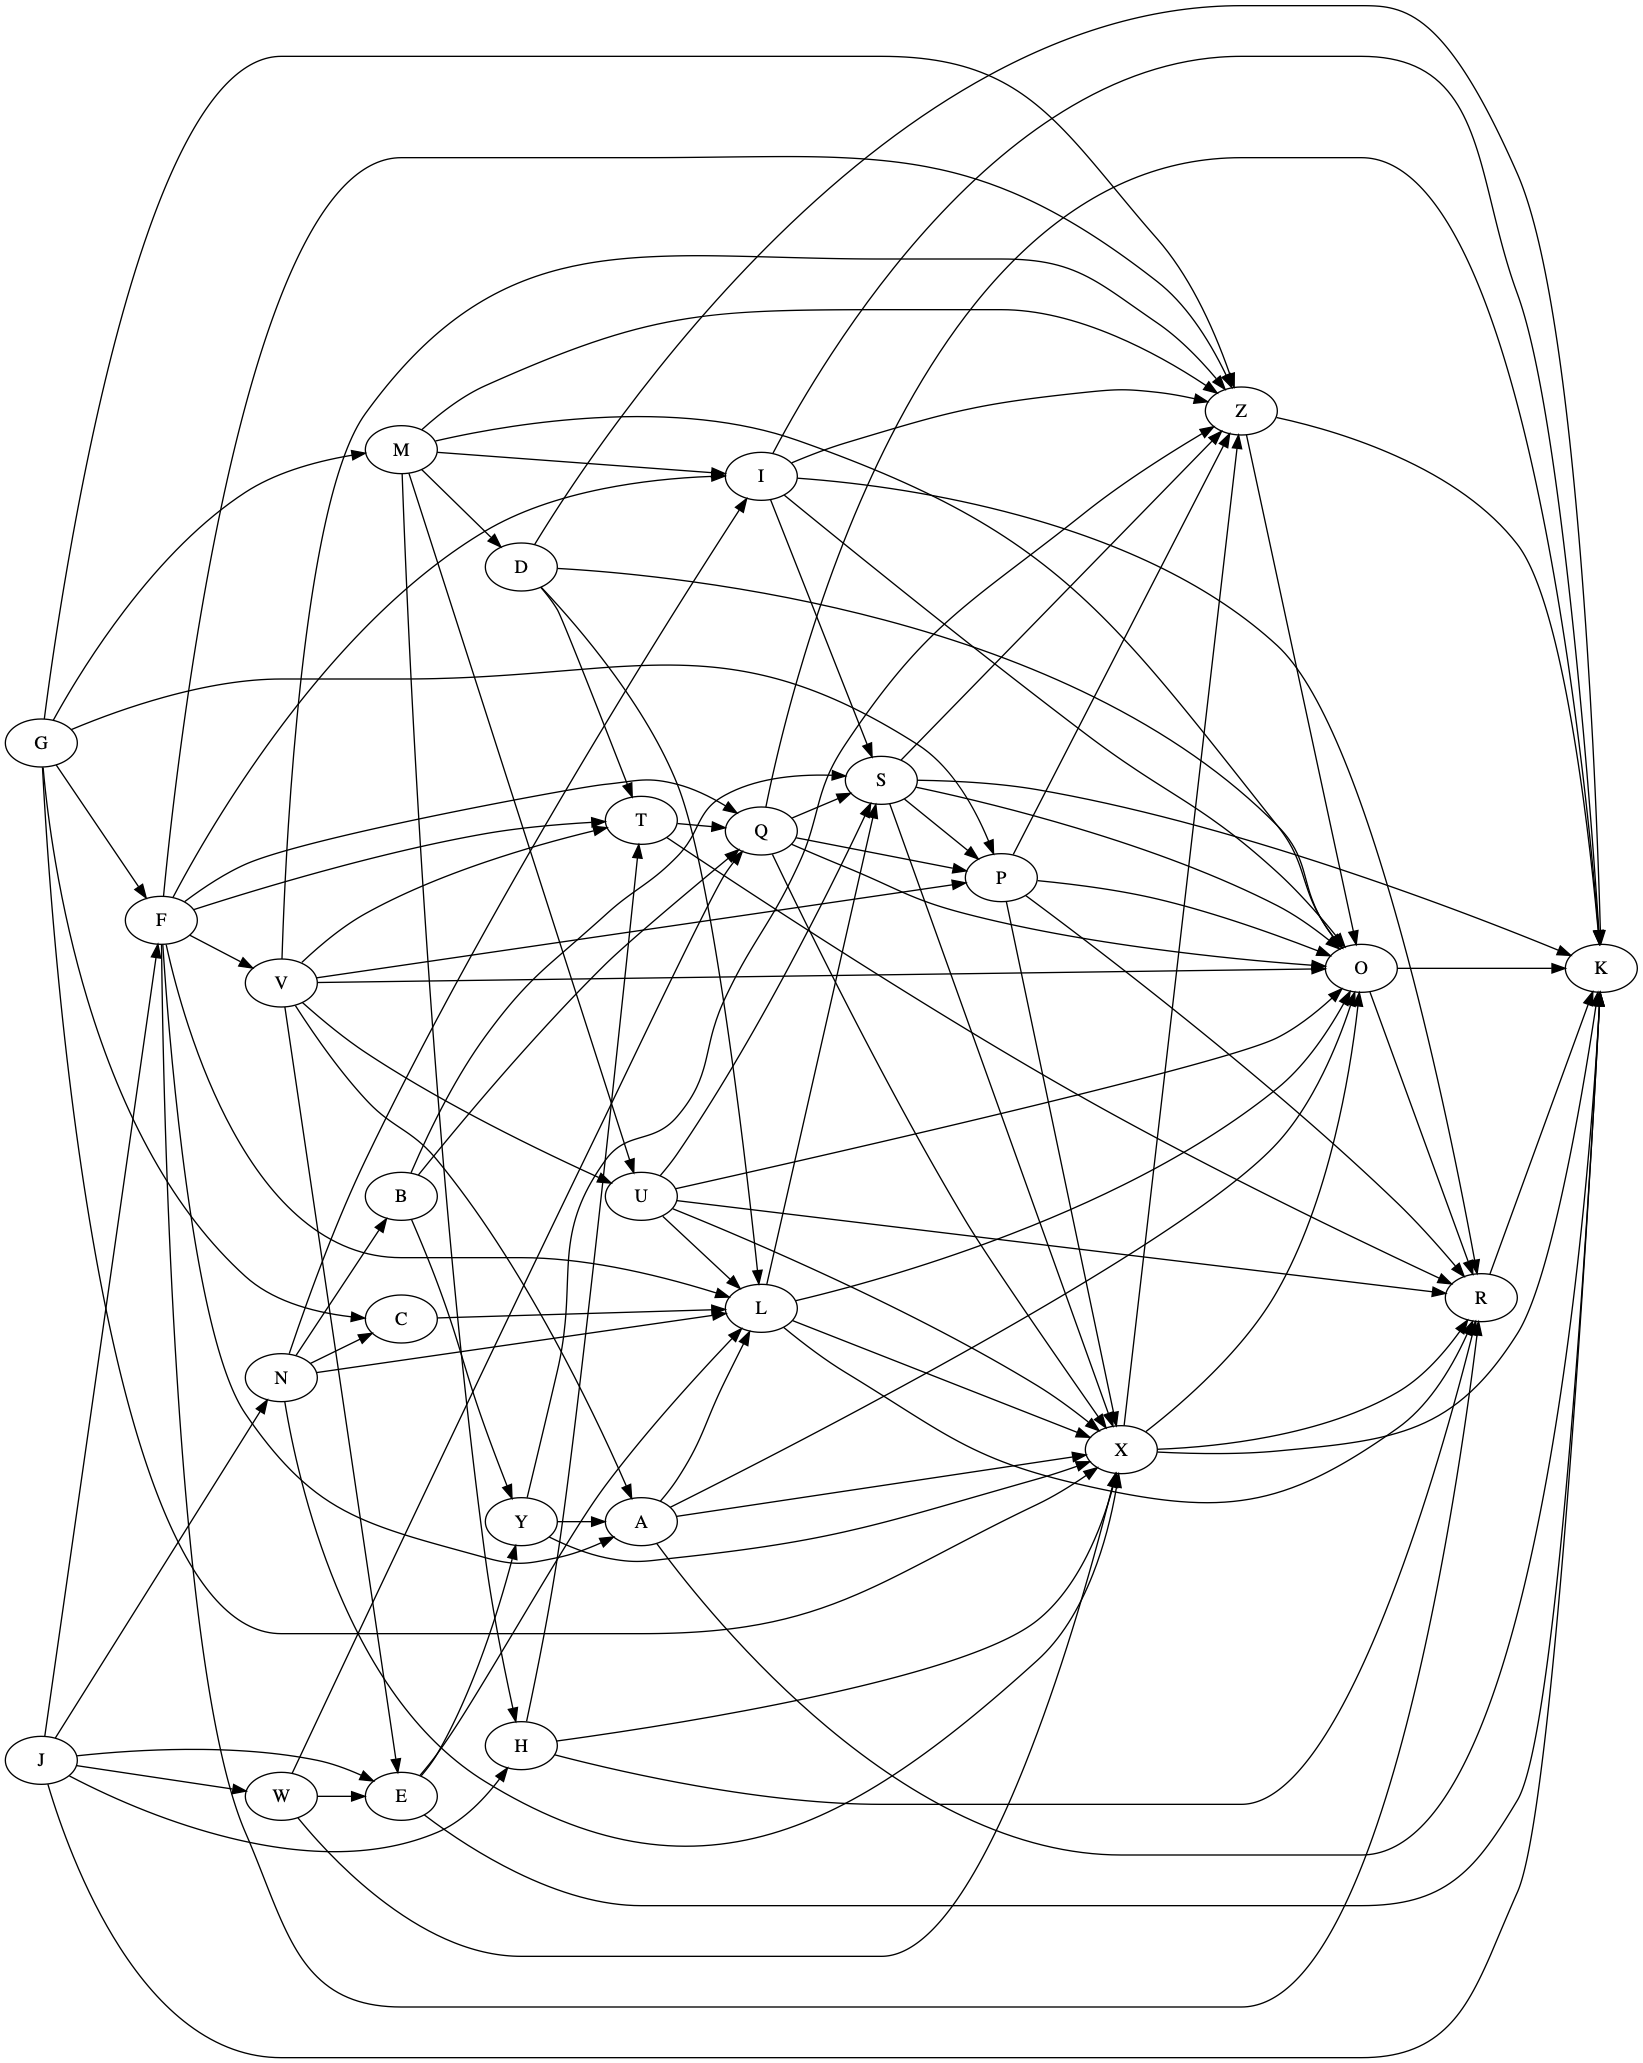
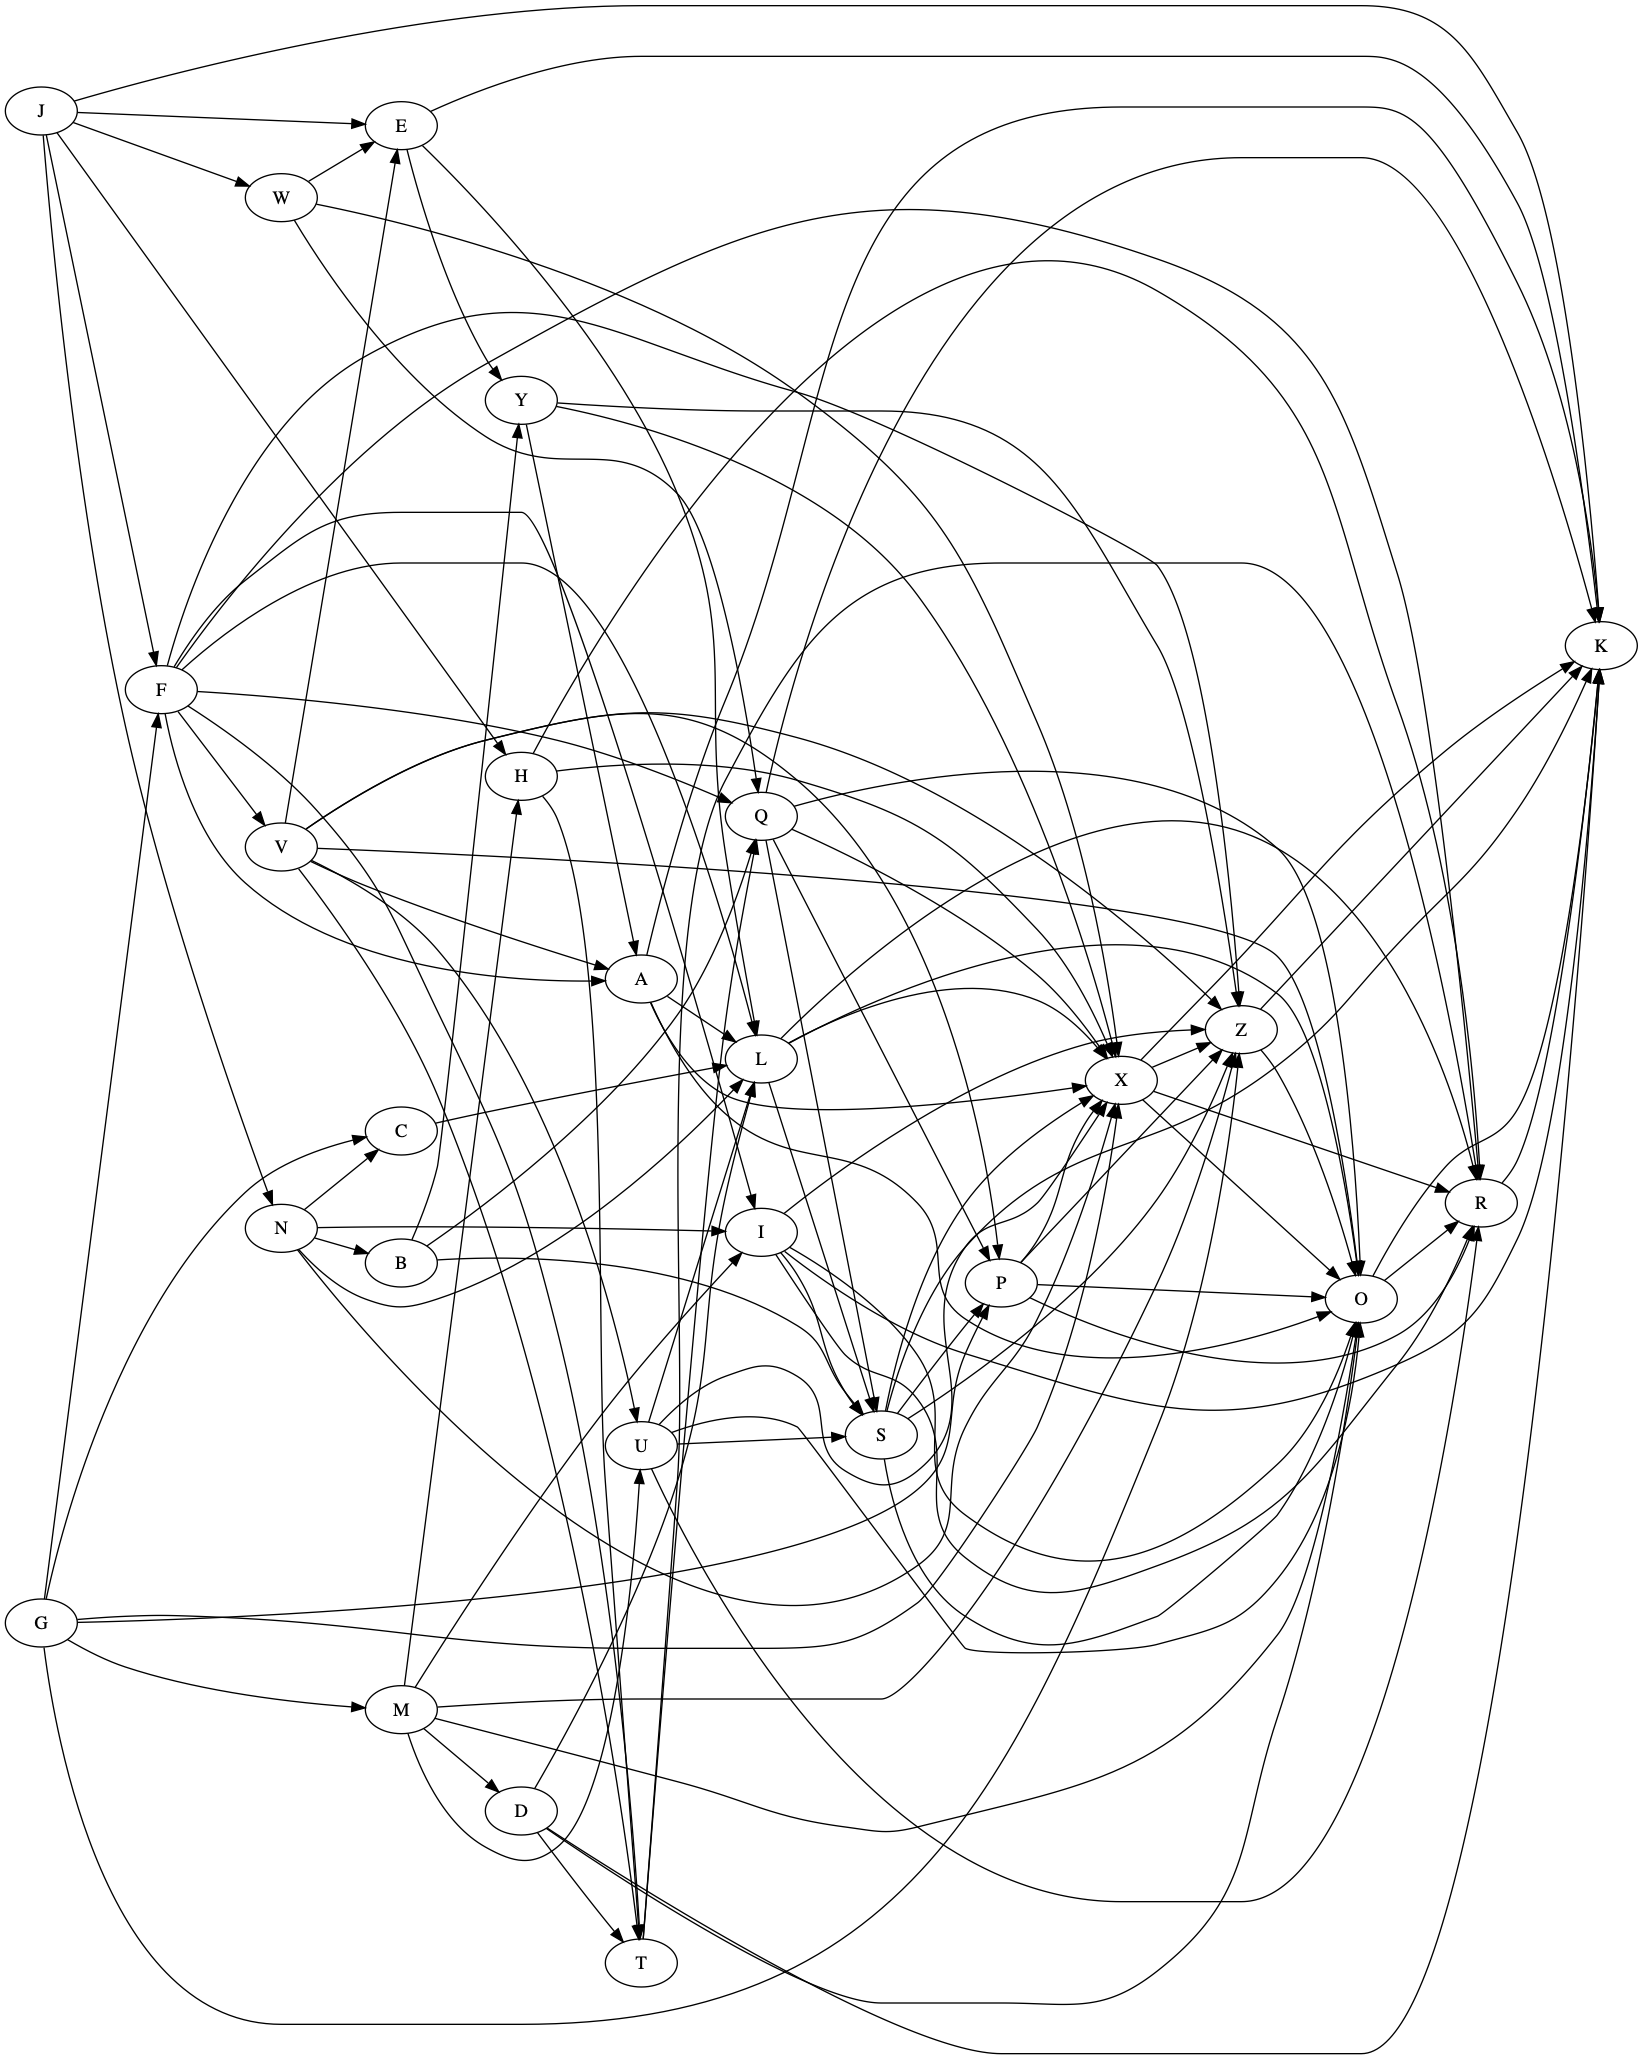
Sync-up in a while

diff --git a/2018/1207.py b/2018/1207.py
@@ -1,8 +1,9 @@
 
 # Imports
-from collections import namedtuple, deque, defaultdict
+from collections import namedtuple, deque, defaultdict, Counter
 import heapq
 import re
+from itertools import count
 
 # String parsing -> named tuple
 Req = namedtuple('Req', ['before', 'after'])
@@ -15,11 +16,13 @@ with open('./1207.in', 'r') as f:
     reqs = [parse(l.strip()) for l in f.readlines()]
 
 # Build matrix (adj. list)
-m_in = defaultdict(list)
-m_out = defaultdict(list)
+m_in, m_in_2 = defaultdict(list), defaultdict(list)
+m_out, m_out_2 = defaultdict(list),defaultdict(list)
 for r in reqs:
     m_out[r.before].append(r.after)
+    m_out_2[r.before].append(r.after)
     m_in[r.after].append(r.before)
+    m_in_2[r.after].append(r.before)
 
 ###############################
 # Visualization (Graphviz Digraph)
@@ -28,6 +31,7 @@ for r in reqs:
 with open('./1207.dot', 'w') as f:
     f.write("digraph {\n")
     f.write("rankdir=LR;")
+    f.write("graph [ordering=\"out\"];")
     for k,v in m_out.items():
         # Double "{{" or "}}" to ESCAPE in format string
         f.write("{} -> {{{}}};\n".format(k,' '.join(v)))
@@ -71,6 +75,101 @@ print(''.join(steps))
 ########################################
 # Part 2 - parallel working schedule (construct & how long to complete?)
 ########################################
+
+def writeWorking():
+    with open('./temp.txt', 'w') as f:
+        for w in workingSchedule:
+            f.write(' '.join([(x if (x != None) else '.') for x in w]) + '\n')
+
+
+numWorkers = 5
+
+def workTime(s): return 60 + int(ord(s) - ord('A') + 1)
+
+workingSchedule = [[] for _ in range(numWorkers)]
+
+todos = Counter({ch : workTime(ch) for ch in ''.join(steps)})
+print("TODOS : {}".format(todos))
+
+zero_incoming = [n for n in m_out_2.keys() if (len(m_in_2[n]) == 0)]
+heapq.heapify(zero_incoming)
+totalTime = 0
+finished = []
+
+# Updates 'zero_incoming' to hold currently working projects
+# (guaranteed topological sorted order, breaking ties alphabetically)
+def updateWorkable():
+    assert(len(zero_incoming) > 0)
+    # Curr
+    curr = heapq.heappop(zero_incoming)
+    for child in m_out_2[curr].copy():
+        # remove edge
+        m_out_2[curr].remove(child)
+        m_in_2[child].remove(curr)
+        # Add child to zero-incoming if no incoming
+        if (len(m_in_2[child]) == 0):
+            heapq.heappush(zero_incoming, child)
+
+    print("UPDATED zero_incoming : {}".format(zero_incoming))
+
+# Work
+for t in count():
+    # Each prev worked accounted
+    if (t > 0):
+        todos -= Counter([w[-1] for w in workingSchedule if w[-1] != None])
+
+    # Each worker curr work assignments
+    for worker in workingSchedule:
+        prevWork = None if (t == 0) else worker[-1]
+        currWorking = [w[-1] for w in workingSchedule if len(w) > 0]
+
+        # no prev work -> Get from (workable - curr working other workers)
+        # prev work not finished -> continue working
+        # prev work finished -> update workable to new
+
+        # Update workables <--- prevWork & count == 0
+        if ((prevWork != None) and (todos[prevWork] == 0)):
+            finished.append(prevWork)
+            updateWorkable()
+        
+        canWork = [n for n in zero_incoming if ((n not in finished) and (n not in currWorking))]
+
+        # New work or Old work or None
+        if ((prevWork != None) and (todos[prevWork] > 0)):
+            # Unfinished work -> continue
+            worker.append(prevWork)
+        else:
+            # print("@@@@@@@@@@@@@@@@@@@@@")
+            # print("prev Work : {}".format(prevWork))
+            # print("curr working : {}".format(currWorking))
+            # print("zero_incoming : {}".format(zero_incoming))
+            # print("canWork : {}".format(canWork))
+
+            # None or finished work
+            worker.append(sorted(canWork)[0] if (len(canWork) > 0) else None)
+
+            # print("@@@@@@@@@@@@@@@@@@@@@")
+            # print("prev Work : {}".format(prevWork))
+            # print("curr working : {}".format(currWorking))
+            # print("zero_incoming : {}".format(zero_incoming))
+            # print("canWork : {}".format(canWork))
+            # if (t > 100):
+            #     writeWorking()
+            #     exit()
+
+    # Finish condition
+    if (sum(todos.values()) == 0): break
+    # print(len(zero_incoming))
+    # print("sum(TODO) : {}".format(sum(todos.values())))
+    totalTime += 1
+
+
+writeWorking()
+print(finished)
+# 1183 --- too high
+print(totalTime)
+
+
 
 ########################################
 # Lessons
